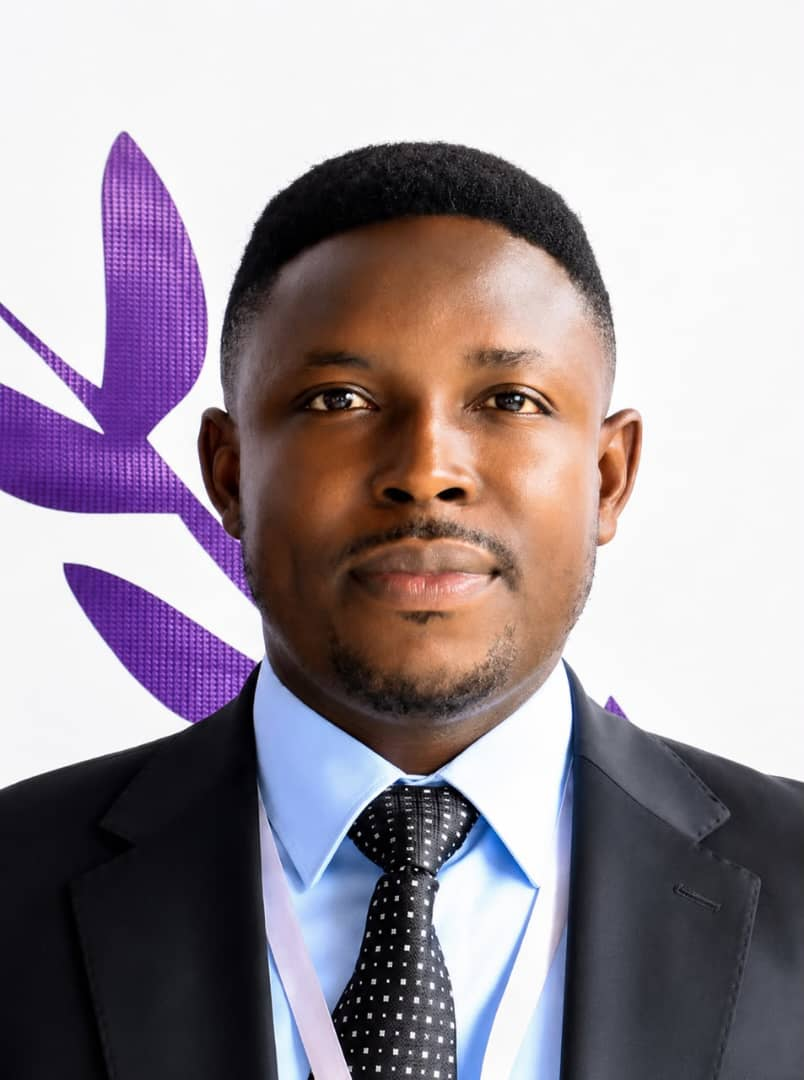
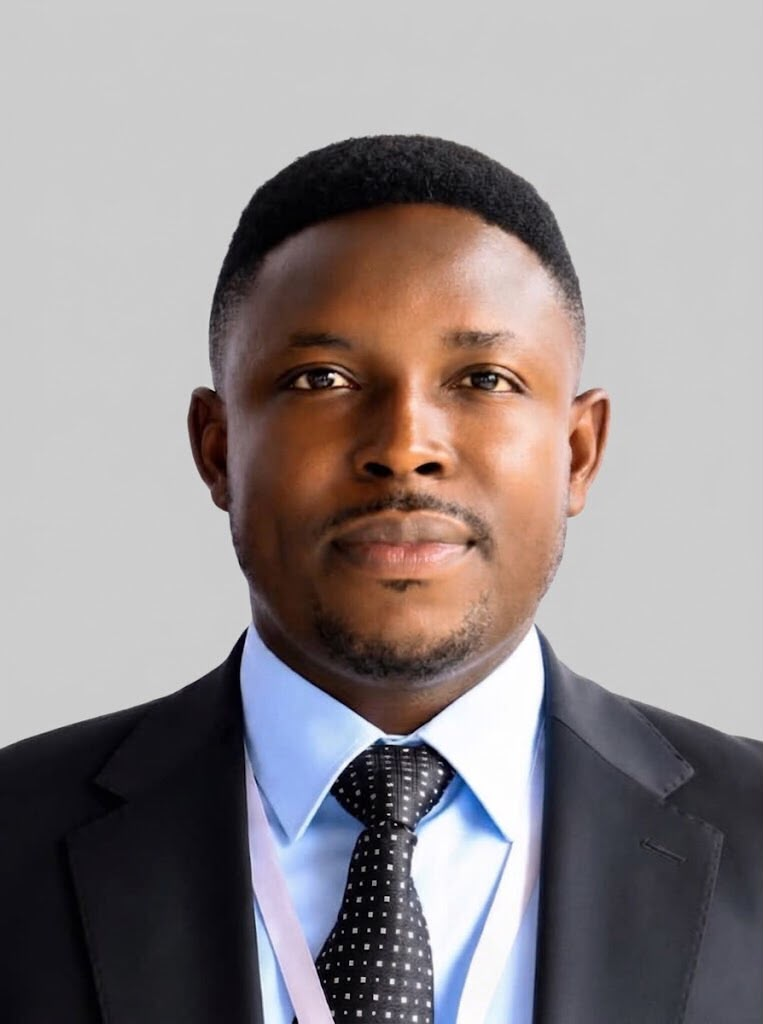
TEAM UPDATE

diff --git a/content/leadership.ts b/content/leadership.ts
@@ -23,6 +23,11 @@ export const leadershipTeam: LeadershipMember[] = [
     image: '/images/home/team/abed.jpeg',
   },
   {
+    name: 'Kevin Siriboe',
+    role: 'Trading & Operations Manager',
+    image: '/images/home/team/amotey.jpeg',
+  },
+  {
     name: 'Alidu Issah',
     role: 'Exploration Manager',
     image: '/images/home/team/alidu-issah.jpg',
